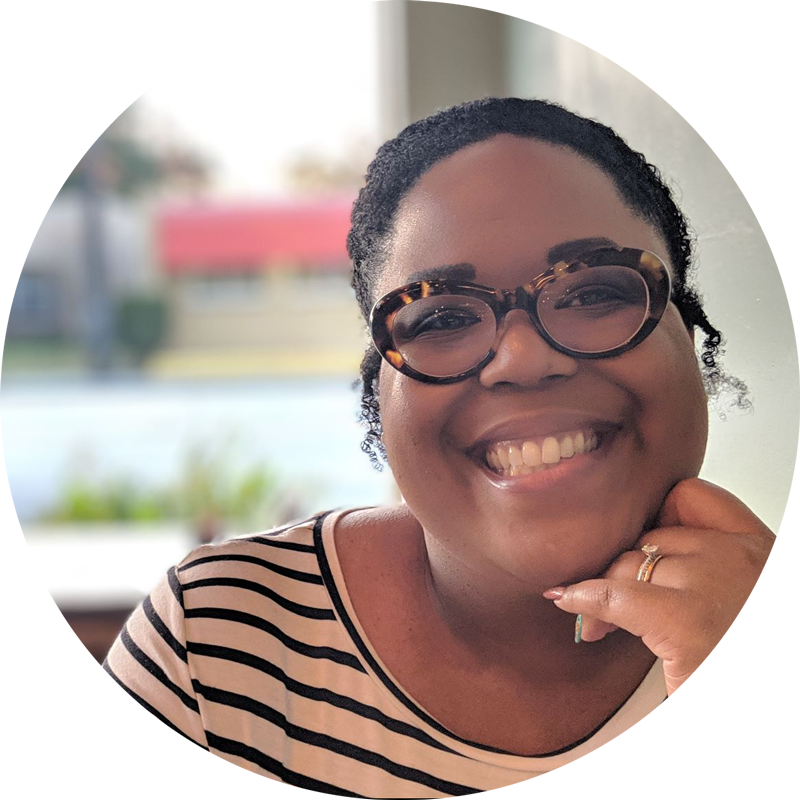
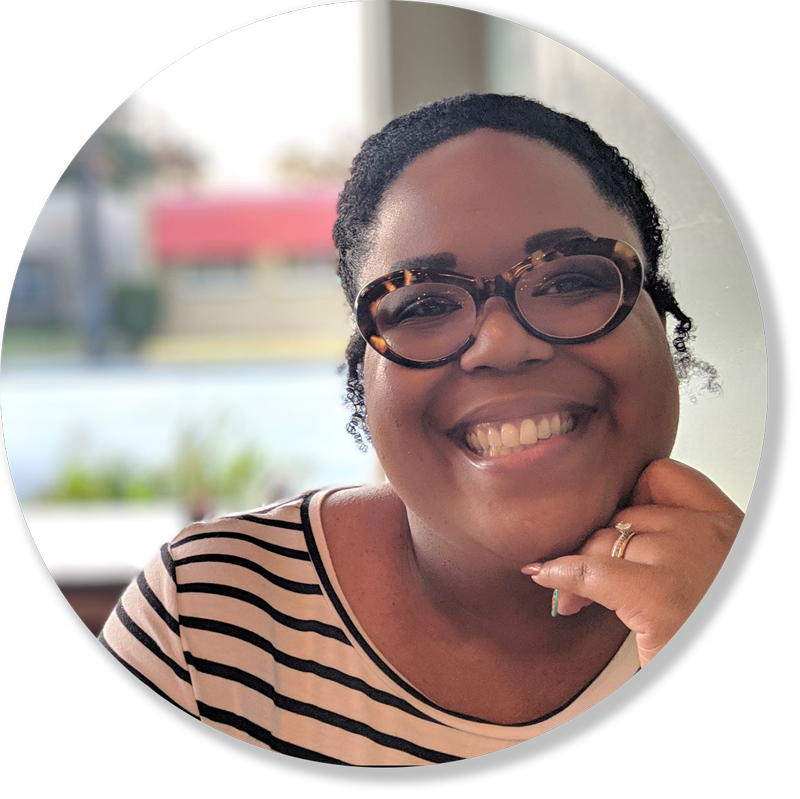
about changes

diff --git a/src/spaStyle.scss b/src/spaStyle.scss
@@ -5,7 +5,10 @@ $lightPink: #efd9d1;
 $darkPink: #c99f92;
 $lightText: #efefef;
 
-@import url('https://fonts.googleapis.com/css2?family=Open+Sans:wght@300;400&family=Playfair+Display:ital,wght@1,500&display=swap');
+$cursiveFont: 'Dancing Script';
+$sansFont: 'Open Sans';
+
+@import url('https://fonts.googleapis.com/css2?family=Open+Sans:wght@300;400&family=Dancing+Script:wght@700&display=swap');
 .largeSection {
   height: 100vh;
   max-width: 100%;
@@ -52,14 +55,17 @@ $lightText: #efefef;
 }
 
 #splash {
-  background-color: $darkPink;
+  //background-color: $darkPink;
   display: flex;
   justify-content: flex-start;
   align-items: center;
   box-sizing: border-box;
   flex-direction: column;
-  font-family: "Open Sans", sans-serif;
+  font-family: $sansFont, sans-serif;
   padding: 1.5em 1em;
+  background: linear-gradient(-45deg, rgb(189, 171, 88), #ddb7ab, #9a8b99, #8cba89);
+  background-size: 500% 500%;
+  animation: gradient 15s ease infinite;
 
   img {
     max-width: 50vw;
@@ -69,41 +75,10 @@ $lightText: #efefef;
     }
   }
 
-  #sheShedDefinition {
-    font-family: 'Open Sans', sans-serif;
-    font-weight: 300;
-    font-size: 1.5em;
-    padding: .25em 1.25em;
-    color: $lightText;
-    text-align: left;
-    border: double 4px white;
-    border-radius: 15px;
-    margin: 1em 0;
-    box-shadow: 2px 4px 6px rgba(0, 0, 0, .25);
-    width: 20em;
-    @media screen and (max-width: 1000px) {
-      width: auto;
-    }
-
-    #term {
-      font-size: 1.25em;
-      font-family: 'Playfair Display', cursive;
-      margin-right: .2em;
-      border-bottom: double 4px $lightText;
-    }
-
-    #termType {
-      font-family: 'Open Sans', sans-serif;
-      font-weight: 400;
-      font-size: 1.1em;
-    }
-
-    #definition {
-      text-shadow: 1px 2px 3px rgba(0, 0, 0, .25);
-    }
-  }
 
   #joinMailingList {
+    margin-top: 2em;
+
     form {
       display: flex;
       flex-direction: column;
@@ -165,12 +140,21 @@ $lightText: #efefef;
 }
 
 #about {
-  background-color: $green;
+  background: linear-gradient(-45deg, #59919e, #8cba89);
+  background-size: 500% 500%;
+  animation: gradient 15s ease infinite;
   display: flex;
-  flex-direction: row;
+  flex-direction: column;
 
   #aboutHeader {
-
+    font-family: $cursiveFont, cursive;
+    font-size: 5em;
+    display: flex;
+    max-height: 5em;
+    color: $lightText;
+    font-weight: 400;
+    padding: .1em 1em;
+    text-shadow: 3px 4px 7px rgba(0, 0, 0, .25);
   }
 
   #aboutContent {
@@ -184,29 +168,69 @@ $lightText: #efefef;
     .aboutSection {
       display: flex;
       flex: 1;
+      flex-direction: column;
 
       &#aboutText {
-        justify-content: center;
+        justify-content: flex-start;
         align-items: center;
         text-align: center;
-        padding: 0 2em;
+        padding: 1em 2em;
         box-sizing: border-box;
         font-size: 1.5em;
         color: $lightText;
-        font-family: 'Open Sans', sans-serif;
+        font-family: $sansFont, sans-serif;
         @media screen and (max-width: 1000px) {
-          flex:.5;
+          flex: .5;
           font-size: 1.25em;
+        }
+
+        #sheShedDefinition {
+          font-family: $sansFont, sans-serif;
+          font-weight: 300;
+          font-size: 1em;
+          padding: .25em 1.25em;
+          color: $lightText;
+          text-align: left;
+          border: double 4px white;
+          border-radius: 15px;
+          margin: 1em 0;
+          box-shadow: 2px 4px 6px rgba(0, 0, 0, .25);
+          width: 20em;
+          @media screen and (max-width: 1000px) {
+            width: auto;
+          }
+
+          #term {
+            font-size: 1.25em;
+            font-family: $cursiveFont, cursive;
+            margin-right: .2em;
+            border-bottom: double 4px $lightText;
+          }
+
+          #termType {
+            font-family: $sansFont, sans-serif;
+            font-weight: 400;
+            font-size: 1.1em;
+          }
+
+          #definition {
+            text-shadow: 1px 2px 3px rgba(0, 0, 0, .25);
+          }
+        }
+
+        #signOff {
+          font-size: 2em;
+          font-family: $cursiveFont, 'cursive';
         }
       }
 
       &#aboutPhoto {
         display: flex;
-        align-items: flex-start;
-        justify-content: center;
+        align-items: center;
+        justify-content: flex-start;
 
         img {
-          max-height: 80%;
+          max-width: 75%;
           @media screen and (max-width: 1000px) {
             max-height: unset;
             max-width: 75%;
@@ -246,21 +270,23 @@ $lightText: #efefef;
   box-shadow: 5px 0 10px rgba(0, 0, 0, .2);
 
   #animatedMenuBG {
-    background: linear-gradient(-45deg, rgba(107, 196, 183, 0.84), #ddb7ab, #9a8b99, #8cba89);
-    background-size: 500% 500%;
-    animation: gradient 15s ease infinite;
+    //background: linear-gradient(-45deg, rgba(107, 196, 183, 0.84), #ddb7ab, #9a8b99, #8cba89);
+    //background-size: 500% 500%;
+    //animation: gradient 15s ease infinite;
+    background: linear-gradient(-45deg, rgba(221, 183, 171, 0.9), rgba(154, 139, 153, 0.9));
     height: 100%;
     width: 100%;
     position: absolute;
     top: 0;
     left: 0;
+    border-right: solid 2px rgba(255, 255, 255, 0.62);
   }
 
 
   .menuOption {
     border-bottom: solid 1px white;
-    font-size: 2em;
-    padding: .5em;
+    font-size: 3em;
+    padding: .25em;
     box-sizing: border-box;
     display: flex;
     justify-content: center;
@@ -270,14 +296,18 @@ $lightText: #efefef;
     cursor: pointer;
     z-index: 1;
     transition: background-color .2s, color .25s, box-shadow .2s;
+    font-family: $cursiveFont, cursive;
 
-    &.currentView {
-      border: double 2px white;
-      border-radius: 5px;
-
+    &.closeButton {
+      font-family: $sansFont, sans-serif;
+      font-weight: 100;
     }
 
-    &:hover {
+    &.currentView {
+      background-color: rgba(255, 255, 255, 0.25);
+    }
+
+    &:hover:not(.currentView) {
       //background-color: rgba(255, 255, 255, .25);
       background-color: rgba(0, 0, 0, .25);
       color: #fad1d1;

diff --git a/src/components/About.js b/src/components/About.js
@@ -5,15 +5,27 @@ export default function About() {
 
     return (
         <div id={'about'} className={'largeSection'}>
+            <div id={'aboutHeader'}>
+                About
+            </div>
             <div id={'aboutContent'}>
                 <div id={'aboutText'} className={'aboutSection'}>
-                    Kiki’s She Shed was born out of a desire to
-                    create an environment that reflected my
-                    eclectic style. This space would serve as a
-                    place to relax, reflect and create.
-<br/>
-                    We hope you find pieces from our collections
-                    that inspire and motivate you!
+                    <div id={'sheShedDefinition'}>
+                        <span id={'term'}>She Shed</span> <span id={'termType'}>(noun)</span>
+                        <span id={'definition'}> - Part of a
+                    home where a woman can relax
+                    and indulge in her interests. </span>
+                    </div>
+                    <p>
+                        Kiki’s She Shed was born out of a desire to
+                        create an environment that reflected my
+                        eclectic style. This space would serve as a
+                        place to relax, reflect and create.
+                        <br/>
+                        We hope you find pieces from our collections
+                        that inspire and motivate you!
+                    </p>
+                    <span id={'signOff'}>- Kiki</span>
                 </div>
                 <div id={'aboutPhoto'} className={'aboutSection'}>
                     <img src={KikiIMG} alt={'Kiki of Kiki\'s She Shed fame'}/>

diff --git a/src/components/NavMenu.js b/src/components/NavMenu.js
@@ -7,13 +7,15 @@ export default function NavMenu({dismissNavMenu, currentView, updateCurrentView}
         <div id={'transBG'} onClick={dismissNavMenu}>
             <div id={'navMenu'}>
                 {menuOptions.map(option => {
-                    const classes = 'menuOption' + (currentView === option ? ' currentView' : '');
+                    const closeBtn = option === 'X';
+                    let classes = 'menuOption' + (currentView === option ? ' currentView' : '');
+                    classes += closeBtn ? ' closeButton' : '';
                     return (
                         <div
                             id={'menuOption_' + option}
                             className={classes}
                             onClick={()=>{
-                                if(option === 'X'){
+                                if(closeBtn){
                                     dismissNavMenu();
                                 }else{
                                     updateCurrentView(option);

diff --git a/src/components/JoinMailingListForm.js b/src/components/JoinMailingListForm.js
@@ -9,7 +9,7 @@ export default function JoinMailingListForm() {
             >
                 <label
                     htmlFor={'joinMailingListInput'}
-                >Join our mailing list to stay up to date!</label>
+                >Sign up to stay in touch!</label>
                 <input
                     name={'joinMailingListInput'}
                     type={'text'}
@@ -20,7 +20,7 @@ export default function JoinMailingListForm() {
                     }}
                     onSubmit={e => onSubmit(e)}
                 />
-                <button>Join Our Mailing List!</button>
+                <button>Be one of the cool kids</button>
             </form>
         </div>
     )

diff --git a/src/App.js b/src/App.js
@@ -31,12 +31,7 @@ function App() {
             {(currentView === 'Home') &&
             <div id={'splash'} className={'largeSection'}>
                 <img src={logo} alt={'KSS Logo'}/>
-                <div id={'sheShedDefinition'}>
-                    <span id={'term'}>She Shed</span> <span id={'termType'}>(noun)</span>
-                    <span id={'definition'}> - Part of a
-                    home where a woman can relax
-                    and indulge in her interests. </span>
-                </div>
+
                 <JoinMailingListForm/>
             </div>
             }
